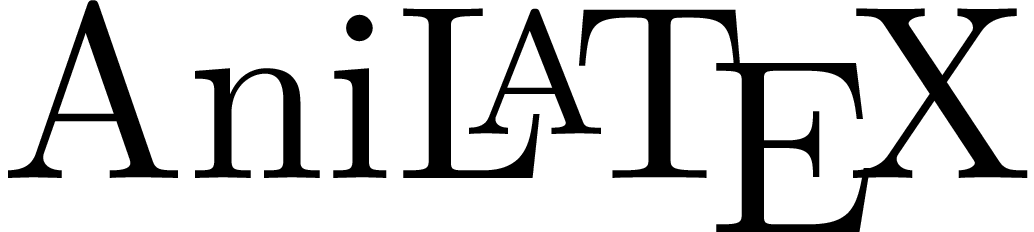
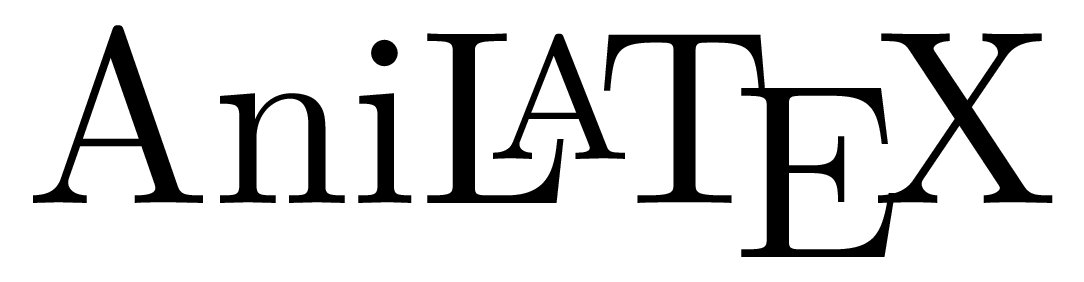
Add 1pt border

Changed region(s): [[0.0, 0.0, 1.0, 1.0]]

diff --git a/anilatex.py b/anilatex.py
@@ -20,13 +20,13 @@ REGEX = {
 
 def print_latex(body, workspace, template=None, preamble=None, filename='temp', dpi=None):
     """Produce and compile a standalone LaTeX file"""
-    document = """
-        \\documentclass[preview]{standalone}
-        \\input{anilatex-preamble}
-        \\begin{document}
-        \\input{anilatex-body}
-        \\end{document}
-    """
+    document = """\\documentclass[preview,margin=1pt]{standalone}
+\\usepackage{amsmath}
+\\input{anilatex-preamble}
+\\begin{document}
+\\input{anilatex-body}
+\\end{document}
+"""
     if template is not None:
         template_path = os.path.join(PROJECT_DIR, 'template', '{}.tex'.format(template))
         with open(template_path, 'r', encoding='utf-8') as file:

diff --git a/template/standalone-cjk.tex b/template/standalone-cjk.tex
@@ -1,9 +1,11 @@
 % Standalone CJK template for XeLaTeX.
-\documentclass[preview]{standalone}
+\documentclass[preview,margin=1pt]{standalone}
 \usepackage{fontspec}
-\usepackage[fallback]{xeCJK}
+\usepackage[fallback,space]{xeCJK}
+\usepackage{amsmath}
 \setCJKmainfont[BoldFont=FandolSong-Bold.otf]{FandolSong-Regular.otf}
-\setCJKfallbackfamilyfont{\CJKrmdefault}{NotoSerifCJK-Regular.ttc}
+%\setCJKfallbackfamilyfont{\CJKrmdefault}{NotoSerifCJK-Regular.ttc}
+\setCJKfallbackfamilyfont{\CJKrmdefault}{Batang}
 \input{anilatex-preamble}
 \begin{document}
 \input{anilatex-body}
